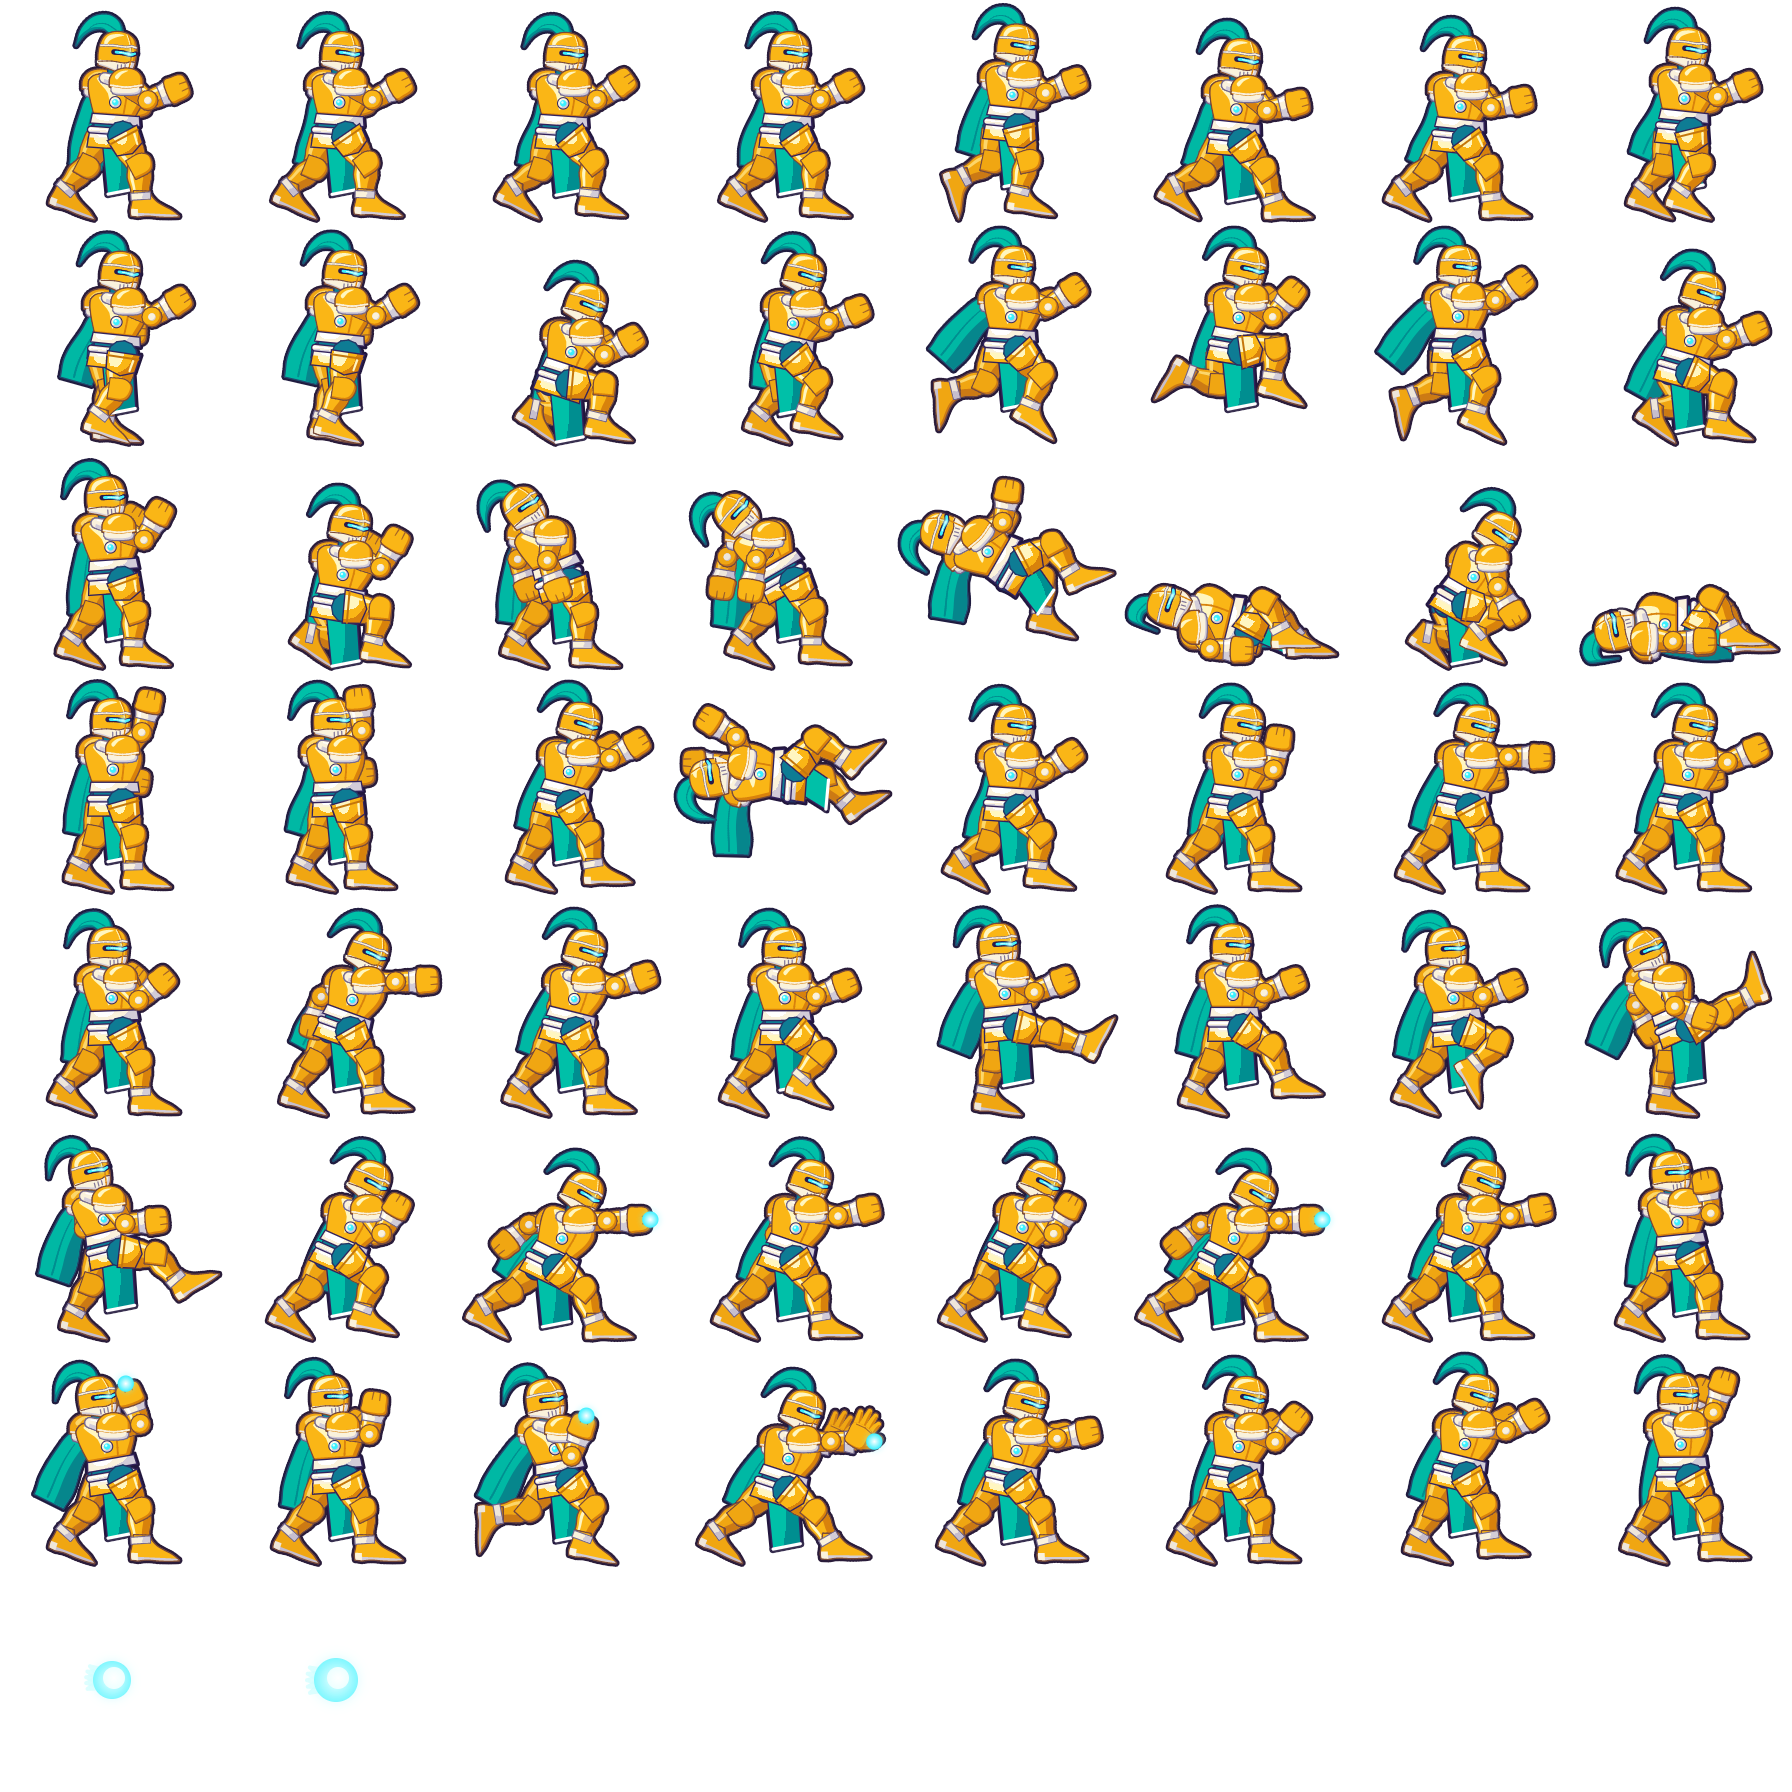
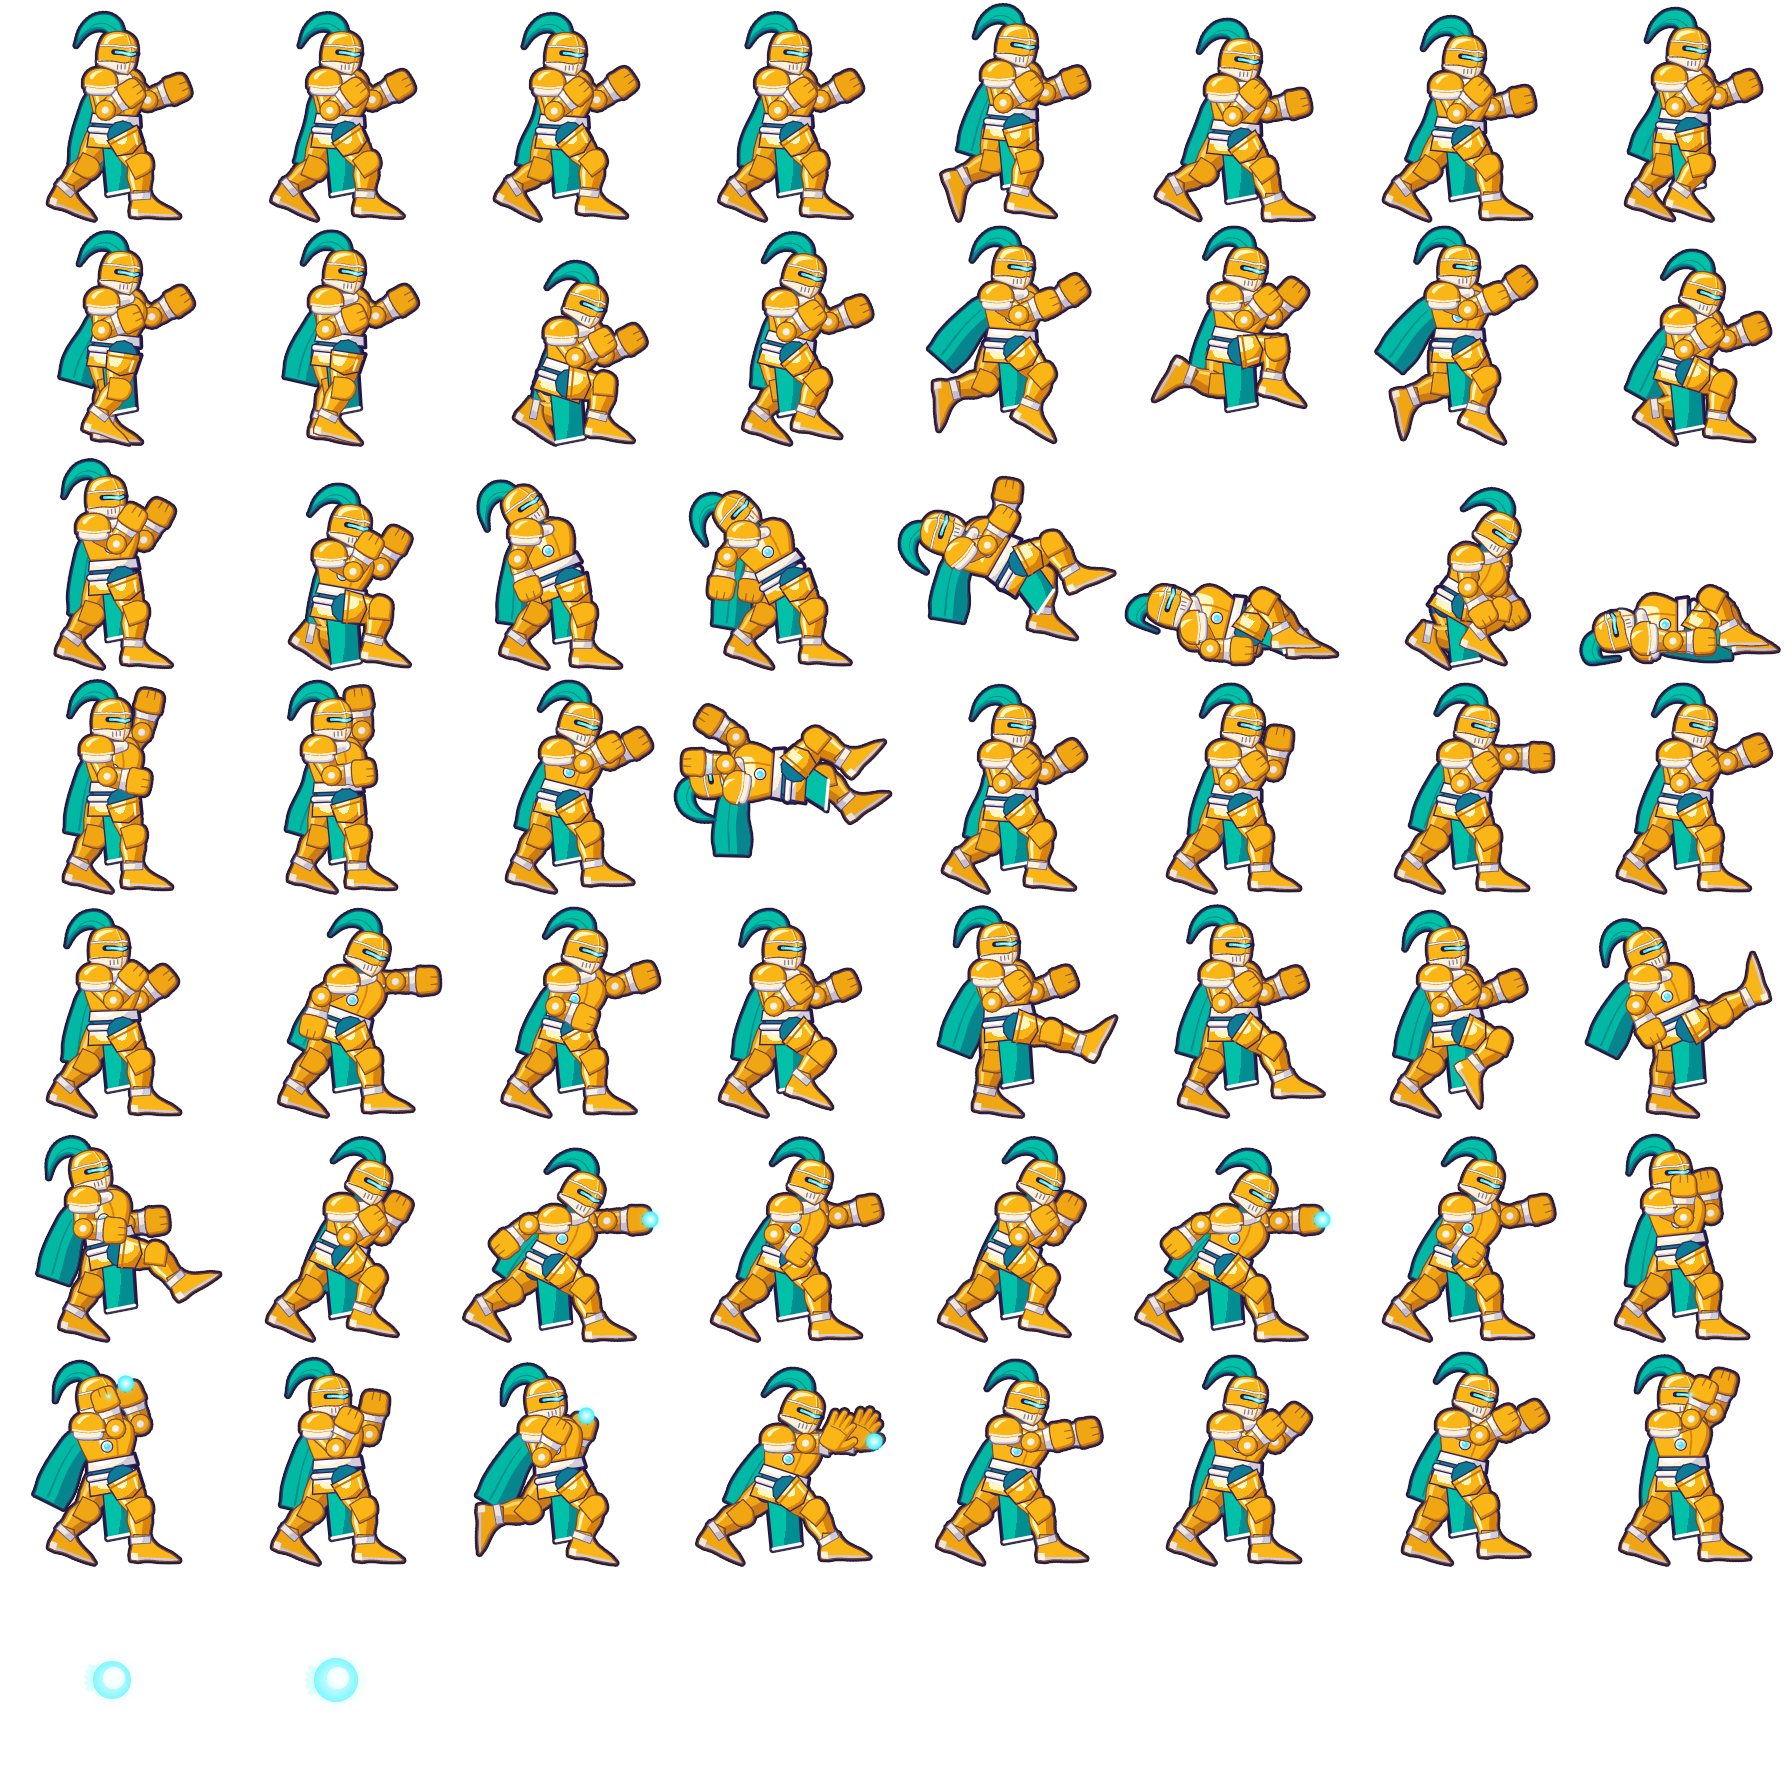
fix(art): stagger Bruno's and Rook's guard so each arm reads from its own shoulder
The lead arm (shoulder on the facing side of the chest) is now drawn as the
far arm: it leaves its shoulder behind the torso and its forearm and fist
come out ahead of the chest. The rear arm is the near one, drawn over the
torso with the elbow by the ribs and the fist up at the chest. Stance arms
retuned to match; attack geometry is unchanged, only the arm draw order.

Claude-Session: https://claude.ai/code/session_01Y9XV58RY4sDZejHydTbcae

diff --git a/scripts/art/fighter_designs.py b/scripts/art/fighter_designs.py
@@ -209,7 +209,7 @@ def make_rig(ch, pose, ctx):
     R["hip_f"] = add(hip, (ho * s, 0))
     R["hip_b"] = add(hip, (-ho * s, 0))
     if ctx["flat"]:
-        R["sh_f"], R["sh_b"] = tp(0.86, -7.0 * s), tp(0.87, -9.0 * s)
+        R["sh_f"], R["sh_b"] = tp(0.87, -9.0 * s), tp(0.86, -7.0 * s)      # rig side "b" is the near arm
         R["hip_f"], R["hip_b"] = add(hip, (-3.0 * s, 0)), add(hip, (-5.0 * s, 0))
     for side, sh, spec in (("f", R["sh_f"], pose["fa"]), ("b", R["sh_b"], pose["ba"])):
         elbow = add(sh, rs.vec(spec[0], upper))
@@ -537,11 +537,12 @@ def bruno_leg(fig, R, side, layer):
     fk.tube_draw(fig, C, patch, layer + 0.35, k=0.4, ol=1.2)
 
 
-def bruno_arm(fig, R, side, layer, glow, glow_hi, part="all"):
+def bruno_arm(fig, R, side, layer, glow, glow_hi, part="all", far=False):
     """Bare slab of an upper arm, gold armband, forge gauntlet with a furnace port, plated fist (or open palm).
-    `part` draws only the upper arm or only the forearm, so a far forearm can pass in front of the body."""
+    `part` draws only the upper arm or only the forearm, so a far forearm can pass in front of the body.
+    `far` tints the arm as the one on the far side of the body."""
     u = R["s"]
-    back = side == "b"
+    back = far
     sh, el, ha = R["sh_" + side], R["elbow_" + side], R["hand_" + side]
     skin, metal, gold = fig.mats["skin"], fig.mats["metal"], fig.mats["gold"]
     if back:
@@ -603,10 +604,13 @@ def bruno_body(fig, R, glow, glow_hi):
     # ---- back limbs
     bruno_leg(fig, R, "b", 1)
     px, py = R["perp"]
-    hb = R["hand_b"]
+    # The lead arm (rig side "f", its shoulder on the facing side of the chest) is the FAR arm of the 3/4 view:
+    # it leaves its shoulder behind the torso and its forearm comes out ahead of the chest. The rear arm (rig
+    # side "b") is the near one and is drawn over the torso from its own shoulder (see draw_bruno).
+    hb = R["hand_f"]
     fwd = ((hb[0] - R["hip"][0]) * px + (hb[1] - R["hip"][1]) * py) / u
     R["back_fore_front"] = fwd > 6.0
-    bruno_arm(fig, R, "b", 1, glow, glow_hi, "upper" if R["back_fore_front"] else "all")
+    bruno_arm(fig, R, "f", 1, glow, glow_hi, "upper" if R["back_fore_front"] else "all", far=True)
     bruno_leg(fig, R, "f", 2.2)
     # ---- torso: belly, barrel chest, yoke of the shoulders
     tbl = [(-0.06, 10.6, 10.6), (0.10, 11.8, 10.6), (0.28, 12.6, 10.6), (0.46, 13.4, 11.4), (0.62, 15.2, 13.0),
@@ -657,7 +661,7 @@ def bruno_body(fig, R, glow, glow_hi):
     Nk = fk.tube([T(0.98, 0.5), fk.head_pt(R, -0.05, 0.80)], [(0, 6.6 * u), (1, 5.6 * u)], caps=(False, False))
     fk.tube_draw(fig, Nk, fk.far(skin, 0.3), 3.7, k=0.5, ol=INNER)
     if R["back_fore_front"]:
-        bruno_arm(fig, R, "b", 5.4, glow, glow_hi, "fore")
+        bruno_arm(fig, R, "f", 5.4, glow, glow_hi, "fore", far=True)
 
 
 def bruno_hair(fig, R):
@@ -708,7 +712,7 @@ def draw_bruno(fig, R, face, glow, glow_hi):
     bruno_body(fig, R, glow, glow_hi)
     fk.head34(fig, R, face, fig.mats["skin"], 4.0, ol=INNER)
     bruno_hair(fig, R)
-    bruno_arm(fig, R, "f", 6, glow, glow_hi)
+    bruno_arm(fig, R, "b", 6, glow, glow_hi)
     # the furnace ports always smoulder; a glow pose stokes them
     s = R["s"]
     knuckles = add(R["hand_f"], sc(fk.unit(R["elbow_f"], R["hand_f"]), 6 * s))
@@ -1188,11 +1192,11 @@ def rook_leg(fig, R, side, layer):
     fk.cel_shape(fig, pol, steel, L0 + 0.32, ol=1.2, shift=(1.5, 1.7))
 
 
-def rook_arm(fig, R, side, layer):
+def rook_arm(fig, R, side, layer, far=False):
     """Plate arm: mail sleeve, rerebrace, round couter, vambrace with a flared cuff, blocky gauntlet fist
-    (or open palm)."""
+    (or open palm). `far` tints it as the arm on the far side of the body."""
     u = R["s"]
-    back = side == "b"
+    back = far
     sh, elbow, hand = R["sh_" + side], R["elbow_" + side], R["hand_" + side]
     steel, dark, trim = fig.mats["steel"], fig.mats["dark"], fig.mats["trim"]
     if back:
@@ -1240,8 +1244,11 @@ def rook_body(fig, R, glow, glow_hi):
     s, tp = R["s"], R["tp"]
     cw, ww = R["chest_w"], R["waist_w"]
     lr = R["limb_r"]
-    rook_arm(fig, R, "b", 1)
-    rook_pauldron(fig, add(R["sh_b"], (-1.0 * s, -0.5 * s)), lr * 1.05, 1.6, True)
+    # the lead arm (rig side "f", shoulder on the facing side of the chest) is the far arm of the 3/4 view: it
+    # starts behind the breastplate and comes out ahead of it; the rear arm (side "b") is the near one, drawn
+    # over the torso from its own shoulder in draw_rook
+    rook_arm(fig, R, "f", 1, far=True)
+    rook_pauldron(fig, add(R["sh_f"], (-1.0 * s, -0.5 * s)), lr * 1.05, 1.6, True)
     u = s
     T = lambda t, w: tp(t, w * u)
     steel, dark, trim = fig.mats["steel"], fig.mats["dark"], fig.mats["trim"]
@@ -1371,8 +1378,8 @@ def draw_rook(fig, R, face, glow, glow_hi):
     s = R["s"]
     rook_cape(fig, R)
     rook_body(fig, R, glow, glow_hi)
-    rook_arm(fig, R, "f", 6)
-    rook_pauldron(fig, add(R["sh_f"], (-0.5 * s, -1.5 * s)), R["limb_r"] * 0.98, 6.2)
+    rook_arm(fig, R, "b", 6)
+    rook_pauldron(fig, add(R["sh_b"], (-0.5 * s, -1.5 * s)), R["limb_r"] * 0.98, 6.2)
     rook_helmet(fig, R, (glow, glow_hi))
     where = R["pose"]["glow"]
     if where == "foot":

diff --git a/scripts/art/gen_fighters.py b/scripts/art/gen_fighters.py
@@ -47,9 +47,11 @@ BASE = dict(hx=0, hy=0, lean=6, head=0,
 # Each fighter's ready stance: what every pose falls back to for the limbs it does not set.
 STANCES = {
     "kestrel": dict(lean=9, fa=(34, 96), ba=(44, 96), fl=(42, 54), bl=(-30, 4)),
-    "bruno": dict(lean=6, fa=(40, 84), ba=(12, 96), fl=(34, 14), bl=(-32, 8)),
+    # bruno, rook: `fa` is the lead hand on the far side (fist out ahead of the chest), `ba` the rear hand on the
+    # near side (elbow down by the ribs, fist up at the chest); see bruno_body / rook_body
+    "bruno": dict(lean=6, fa=(56, 76), ba=(4, 112), fl=(34, 14), bl=(-32, 8)),
     "ilse": dict(lean=4, fa=(52, 60), ba=(12, 88)),
-    "rook": dict(lean=4, fa=(52, 60), ba=(12, 88), fl=(28, 24), bl=(-28, 14)),
+    "rook": dict(lean=4, fa=(52, 60), ba=(8, 116), fl=(28, 24), bl=(-28, 14)),
 }
 
 
@@ -210,8 +212,8 @@ FIGHTER_TWEAKS = {
 LOW_GUARD = dict(fa=(66, 84), ba=(56, 92))
 # The two heavy fighters on their backs: near arm on the ground beside the body with the hand past the hip, far arm
 # behind it, knees raised in an inverted V with the feet flat. Winded, the head and shoulders come up on one forearm.
-FLAT_KO = dict(fa=(-8, 8), ba=(-4, 4), fl=(64, 126), bl=(52, 108))
-FLAT_LYING = dict(lean=14, head=2, fa=(-58, 56), ba=(-30, 30), fl=(62, 124), bl=(40, 90))
+FLAT_KO = dict(ba=(-8, 8), fa=(-4, 4), fl=(64, 126), bl=(52, 108))
+FLAT_LYING = dict(lean=14, head=2, ba=(-58, 56), fa=(-30, 30), fl=(62, 124), bl=(40, 90))
 # Extra frame context per fighter: {fighter: {frame name: ctx}}.
 FRAME_CTX = {"bruno": {"down_1": dict(flat=True), "ko_0": dict(flat=True)},
              "rook": {"down_1": dict(flat=True), "ko_0": dict(flat=True)}}
